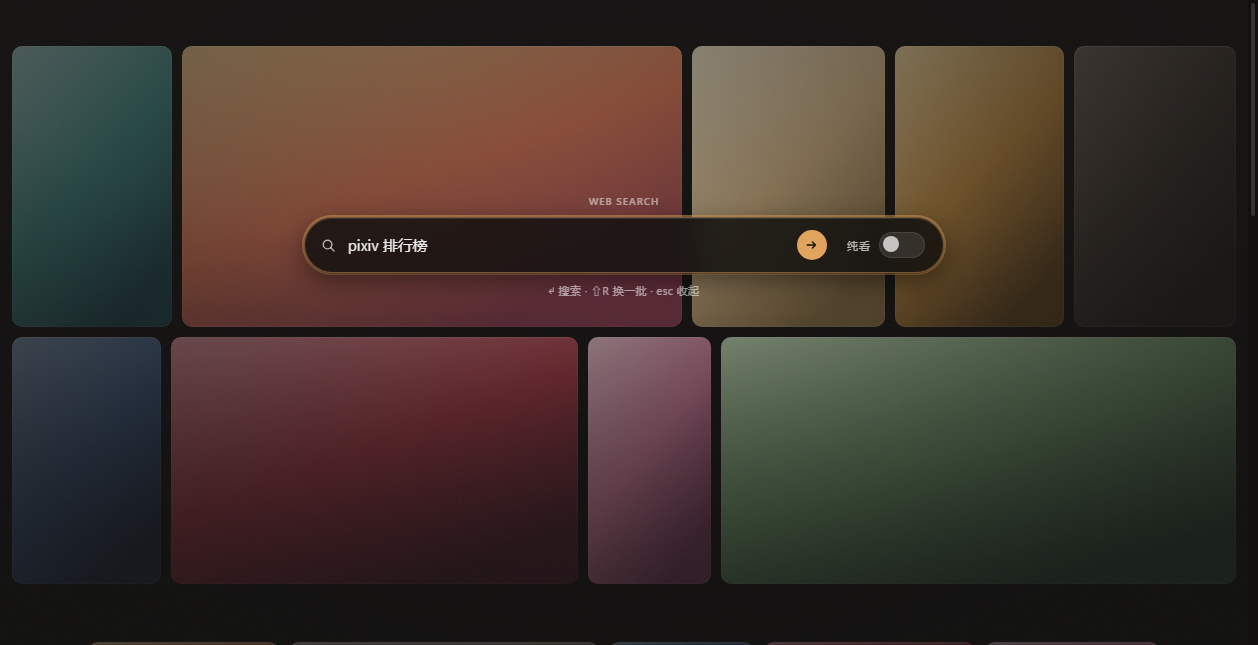
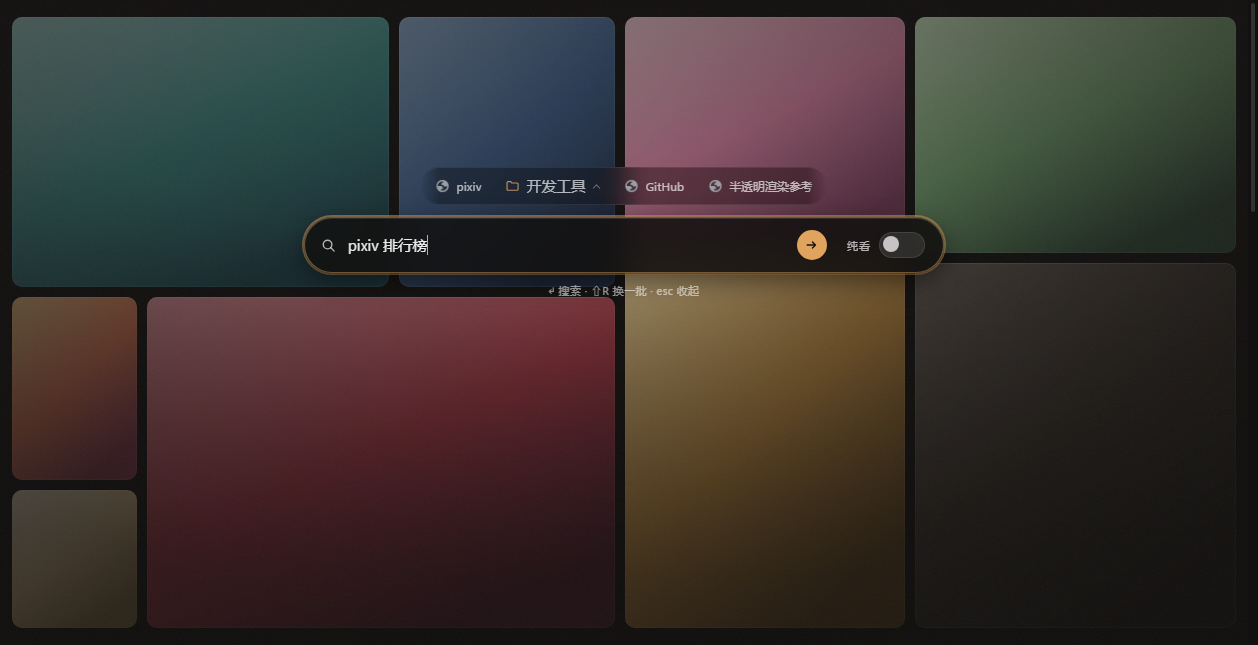
docs(readme): fresh screenshots, searchable intro, richer metadata
Screenshots now show the bookmark strip, an open folder menu, and the
strip riding the risen capsule — all re-rendered with gradient stand-ins
so no copyrighted artwork is published. The intro leads bilingual with
what the extension is and carries an explicit keyword line, and the repo
description/topics now cover new-tab, bookmarks, wallpaper and friends
so the project actually surfaces in search.

diff --git a/README.md b/README.md
@@ -1,11 +1,24 @@
-# ACG-Chrome-plugin（Ku-nya 衍生版）
+# Ku-nya MV3 · pixiv 新标签页拼图墙（ACG-Chrome-plugin）
 
-A Chrome extension for pixiv lovers: it picks up illustrations from the pixiv
-ranking and displays them on your new tab — as a gapless, zero-crop **puzzle
-wall** that reveals itself screen by screen as you scroll.
+**把 Chrome 新标签页变成 pixiv 拼图墙 + 书签首页。** 每张插画按原图宽高比
+精确拼合（i3/bspwm 式二叉空间分割），零裁切、零拉伸；底部一枚磨砂搜索
+胶囊，上方一排 Chrome 书签镜像，收藏插画、标签筛选、榜单/推荐源一站齐全。
 
-![新标签页图墙（示意）](docs/screenshots/newtab-wall.png)
-![聚焦搜索时的 Spotlight 升起（示意）](docs/screenshots/newtab-spotlight.png)
+A Chrome extension (Manifest V3) that turns your **new tab page** into a
+gapless, zero-crop **puzzle wall** of pixiv illustrations — every tile keeps
+its source aspect ratio, BSP-tiled like i3/bspwm — plus a **bookmark strip**
+mirroring your Chrome bookmarks with folder menus, a Spotlight-style search
+capsule, custom pixiv tag sources with popularity tiers (`users入り`), the
+algorithmic discovery feed, pixiv login support, and one-click artwork
+bookmarking. Derivative of [Ku-nya](https://github.com/tamanobi/Ku-nya).
+
+**关键词 / Keywords**: pixiv new tab · pixiv 新标签页 · Chrome 扩展 ·
+chrome extension newtab · anime wallpaper new tab · pixiv ranking ·
+书签栏 new tab · bookmark bar homepage · 拼图墙 · puzzle wall · BSP tiling
+
+![新标签页图墙：零裁切拼图 + 书签条 + 搜索胶囊（示意）](docs/screenshots/newtab-wall.png)
+![书签文件夹菜单：整理成分组，点开是玻璃菜单（示意）](docs/screenshots/newtab-bookmarks.png)
+![聚焦搜索：胶囊 Spotlight 升起，书签条跟随上浮（示意）](docs/screenshots/newtab-spotlight.png)
 ![扩展设置弹窗](docs/screenshots/popup.png)
 
 > 截图说明 / About these screenshots: 为保护画师版权，截图中的插画均以程序
@@ -55,8 +68,8 @@ wall** that reveals itself screen by screen as you scroll.
 >   书签，`↑↓` 选择、回车直达——两者都是普通 Chrome 书签，书签管理器里可见可整理
 > - **首页书签栏**：搜索胶囊上方一排 Chrome 书签镜像（favicon + 标题，书签栏
 >   优先、「其他书签」在后；文件夹保持分组，点开是玻璃菜单），点击直达常去的
->   网页；不持自有数据，新开标签页或回到标签页时自动重读，在 Chrome 里整理书签
->   即时跟随，可在 popup 整体关闭
+>   网页；搜索升起时书签条跟随胶囊一起上浮、保持可点；不持自有数据，新开标签页
+>   或回到标签页时自动重读，在 Chrome 里整理书签即时跟随，可在 popup 整体关闭
 > - 键盘流：`/`、`Ctrl/Cmd+K` 聚焦搜索，任意字符直接开搜，`⇧R` 换一批，`Esc` 收起
 > - 图源修复：统一归一化为等比 `master` 图（修复 `_custom` 方图缩略图导致的
 >   拉伸），分辨率提升至 `600x1200_90`
@@ -134,11 +147,12 @@ why.
   capsule, one click away from your usual sites. Folders stay folders: a
   folder chip opens a small glass menu of its links (nested folders flatten
   into the parent menu), so tidying is rewarded with organisation instead of
-  a longer row. The strip holds no data of its own — the bar is re-read
-  whenever a tab opens or regains focus (and on `chrome.bookmarks.onChanged`
-  where the platform delivers it), so reorganising bookmarks in Chrome is
-  reflected the moment you come back, and the popup can hide the strip
-  entirely
+  a longer row. When the capsule rises for a search the strip rides up with
+  it and stays clickable — bookmarks are answers to a search too. It holds no
+  data of its own — the bar is re-read whenever a tab opens or regains focus
+  (and on `chrome.bookmarks.onChanged` where the platform delivers it), so
+  reorganising bookmarks in Chrome is reflected the moment you come back, and
+  the popup can hide the strip entirely
 - `/` or `Ctrl/Cmd+K` focuses the search field, any printable character starts a
   query, `Shift+R` deals a fresh wall, `Esc` clears and steps out; in watch mode
   the capsule steps back to a ghost while the pointer is still and returns the
